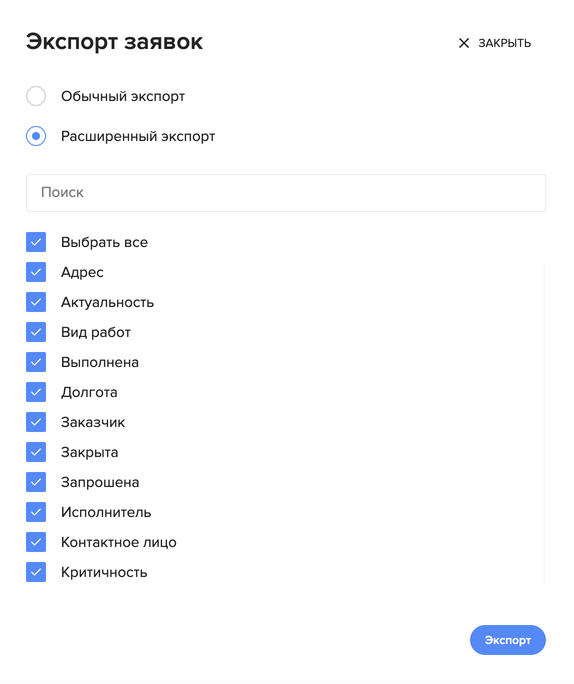
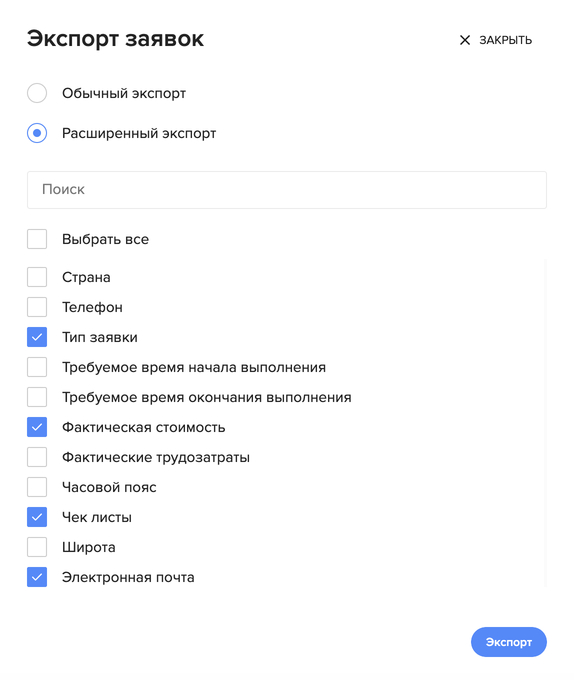
export_update

diff --git a/docs/FAQ/RU/user/Export.md b/docs/FAQ/RU/user/Export.md
@@ -31,7 +31,7 @@
 
 В одном из последних обновлений появилась возможность расширенного экспорта заявок с набором полей, которые Вы можете выбрать самостоятельно. Таким образом, Вы сможете экспортировать файл с только интересующими Вас полями (столбцами).
 
-После нажатия на кнопку экспорта заявок, нажмите на "Расширенный экспорт", затем у Вас откроется окошко выбора экспортируемых полей.
+После нажатия на кнопку экспорта заявок, нажмите на "Расширенный экспорт", затем у Вас откроется окошко выбора экспортируемых полей. Важно отметить, что теперь можно экспортировать "Чеклисты", "Выполненные работы" и "Сообщения".
 
 ![exptick3.png](/attachments/images/FAQ/USER/Export/exptick3.jpg)
 
